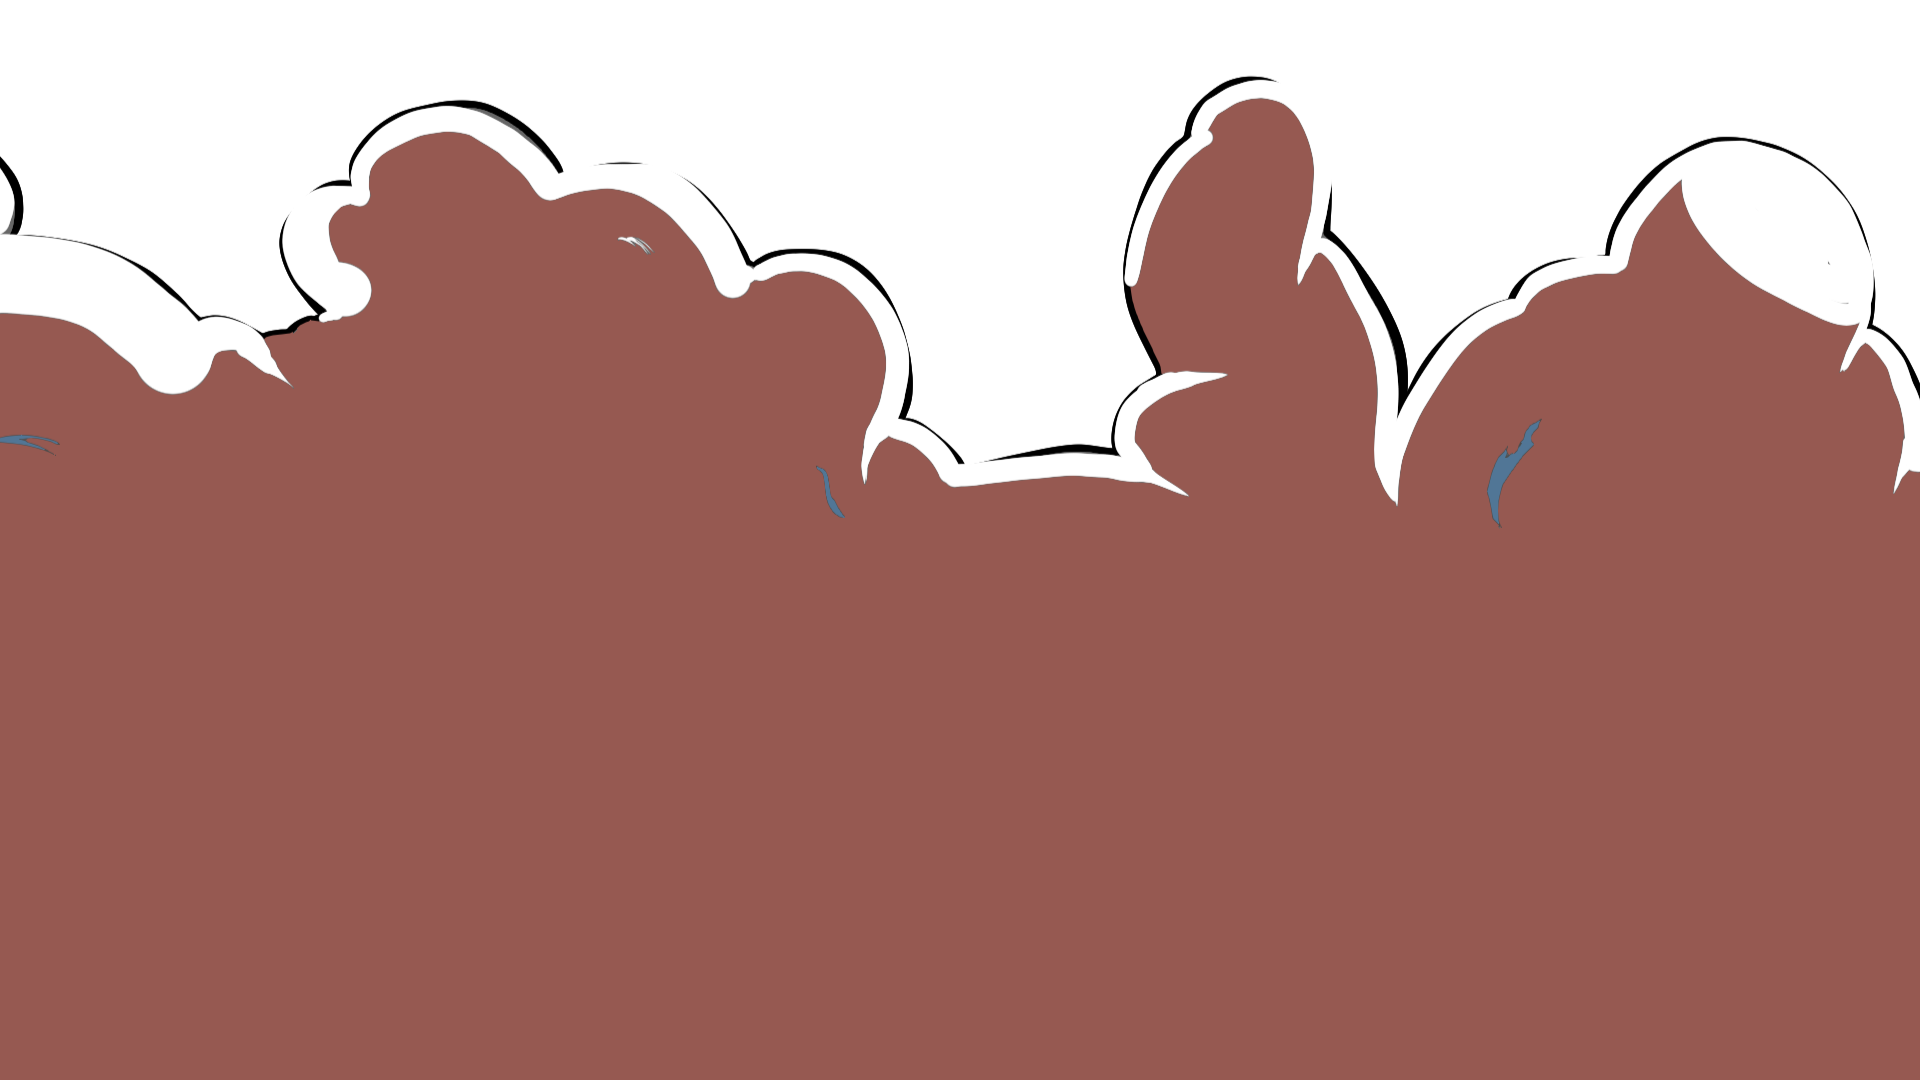
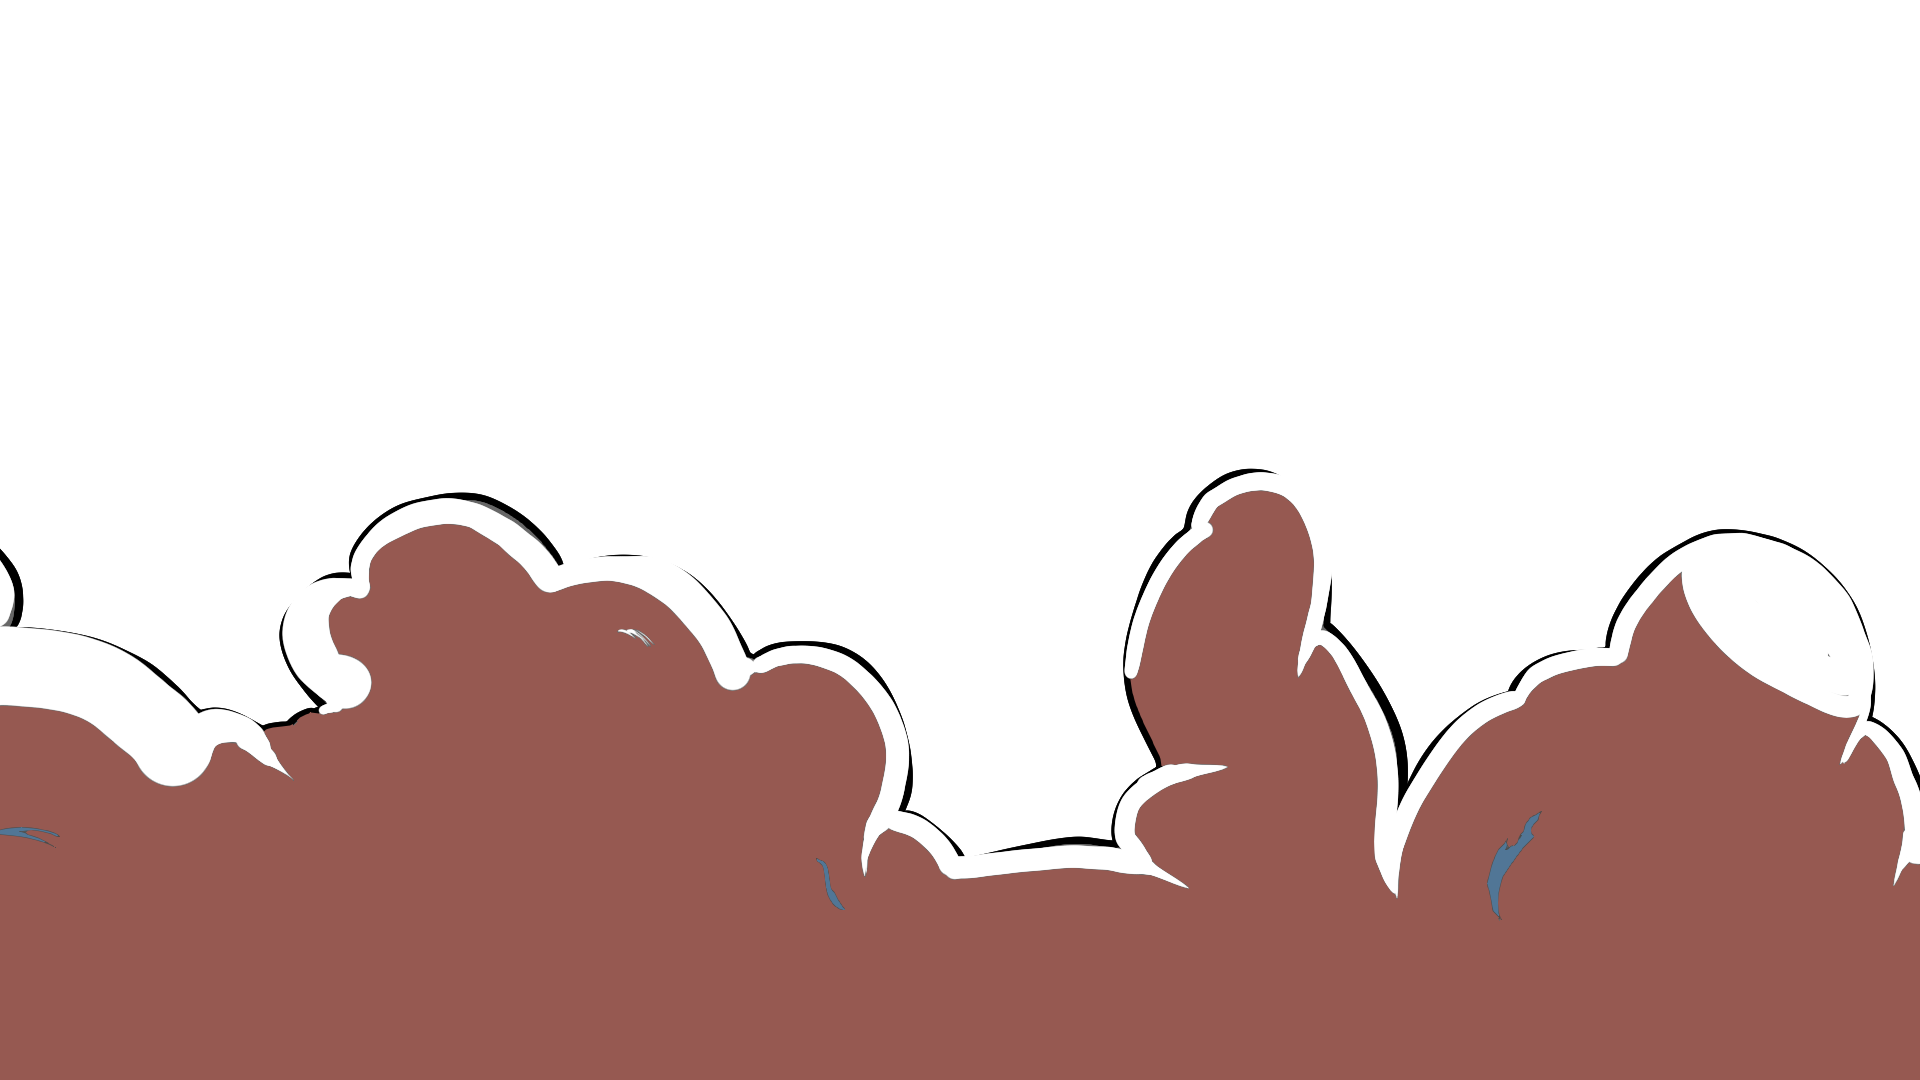
adicionando frames para animação das nuvens

diff --git a/index.html b/index.html
@@ -76,7 +76,8 @@
         <p>Mas existem quatro caminhos predefinidos que servem como guia, as chamadas <span>trilhas.</span></p>
       </div>
       <div id="animation">
-        <img src="./src/images/home/cloud_frames/frame1.png" alt="Frame 1" id="frame1">
+        <img src="./src/images/home/cloud_frames/frame0.png" alt="Frame 0">
+        <img src="./src/images/home/cloud_frames/frame1.png" alt="Frame 1">
         <img src="./src/images/home/cloud_frames/frame2.png" alt="Frame 2">
         <img src="./src/images/home/cloud_frames/frame3.png" alt="Frame 3">
         <img src="./src/images/home/cloud_frames/frame4.png" alt="Frame 4">
@@ -100,6 +101,11 @@
         <img src="./src/images/home/cloud_frames/frame22.png" alt="Frame 22">
         <img src="./src/images/home/cloud_frames/frame23.png" alt="Frame 23">
         <img src="./src/images/home/cloud_frames/frame24.png" alt="Frame 24">
+        <img src="./src/images/home/cloud_frames/frame25.png" alt="Frame 25">
+        <img src="./src/images/home/cloud_frames/frame26.png" alt="Frame 26">
+        <img src="./src/images/home/cloud_frames/frame27.png" alt="Frame 27">
+        <img src="./src/images/home/cloud_frames/frame28.png" alt="Frame 28">
+        <img src="./src/images/home/cloud_frames/frame29.png" alt="Frame 29">
       </div>
 
       <div id="corujacol4row29">

diff --git a/src/scripts/home.js b/src/scripts/home.js
@@ -72,6 +72,7 @@ dog.addEventListener('mouseout', function() {
 // });}
 
 var imagePaths = [
+  '../src/images/home/cloud_frames/frame0.png',
   '../src/images/home/cloud_frames/frame1.png',
   '../src/images/home/cloud_frames/frame2.png',
   '../src/images/home/cloud_frames/frame3.png',
@@ -95,6 +96,11 @@ var imagePaths = [
   '../src/images/home/cloud_frames/frame22.png',
   '../src/images/home/cloud_frames/frame23.png',
   '../src/images/home/cloud_frames/frame24.png',
+  '../src/images/home/cloud_frames/frame25.png',
+  '../src/images/home/cloud_frames/frame26.png',
+  '../src/images/home/cloud_frames/frame27.png',
+  '../src/images/home/cloud_frames/frame28.png',
+  '../src/images/home/cloud_frames/frame29.png',
   // Adicione os caminhos das outras imagens aqui até o frame 24
 ];
 
